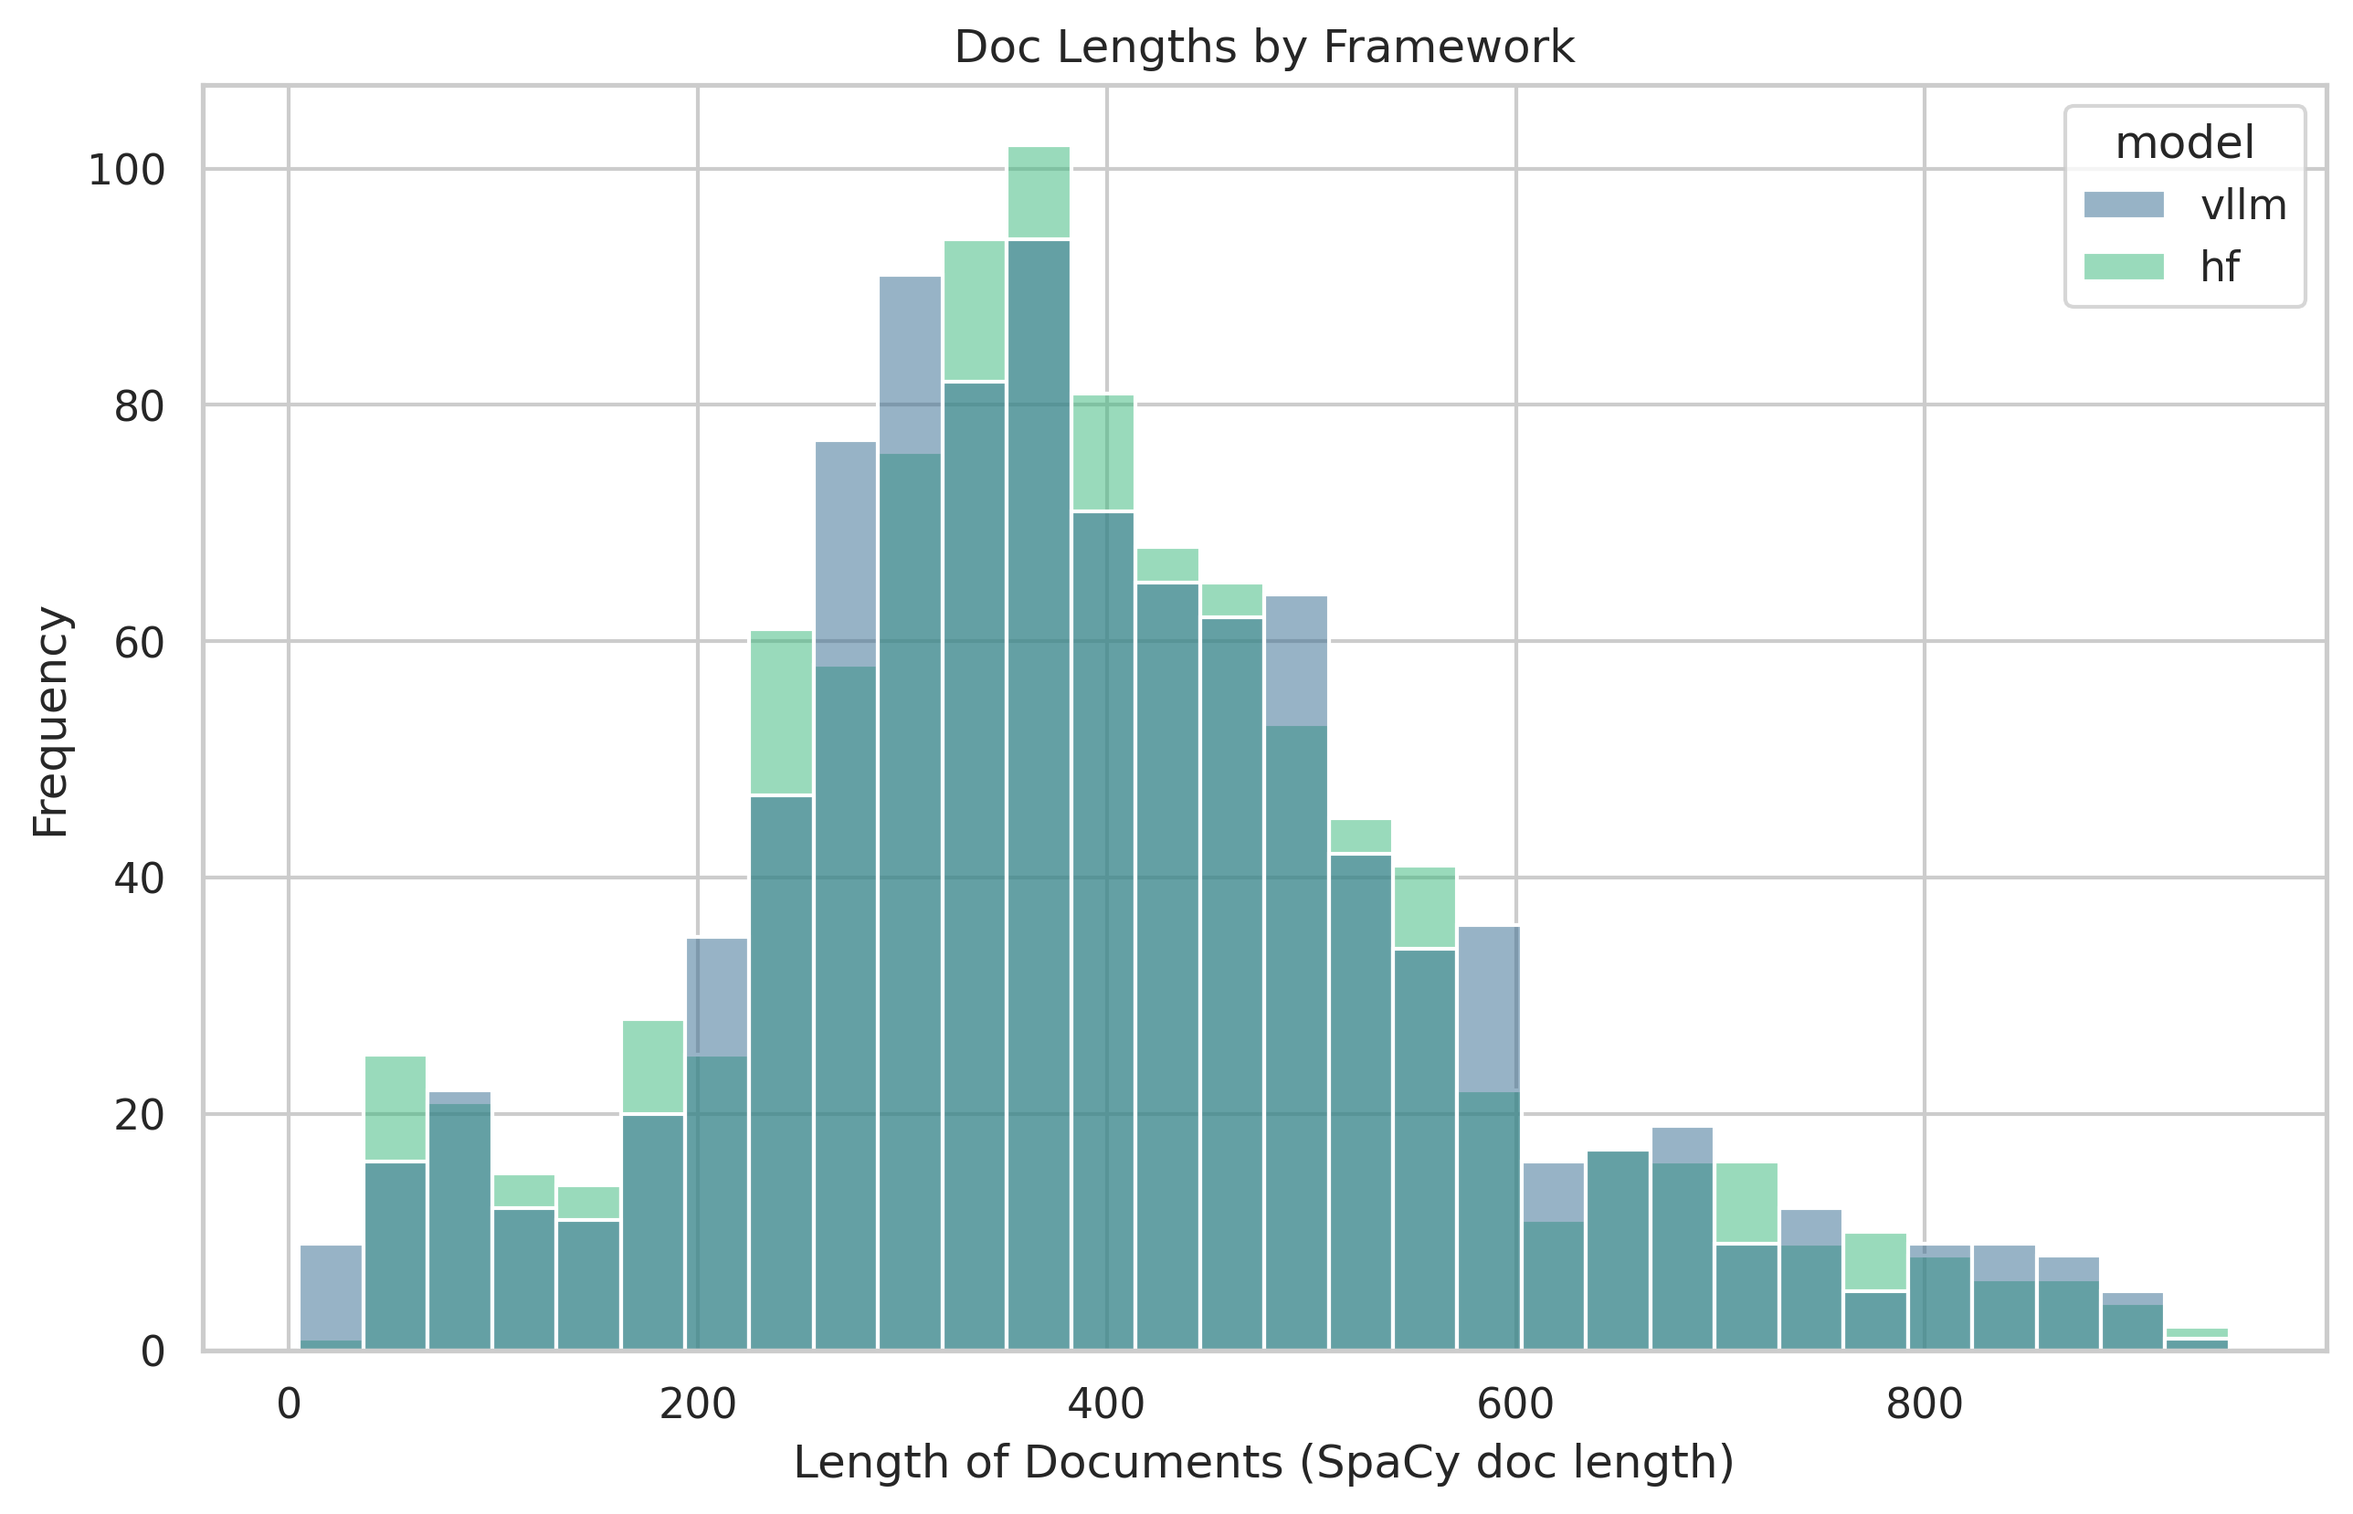
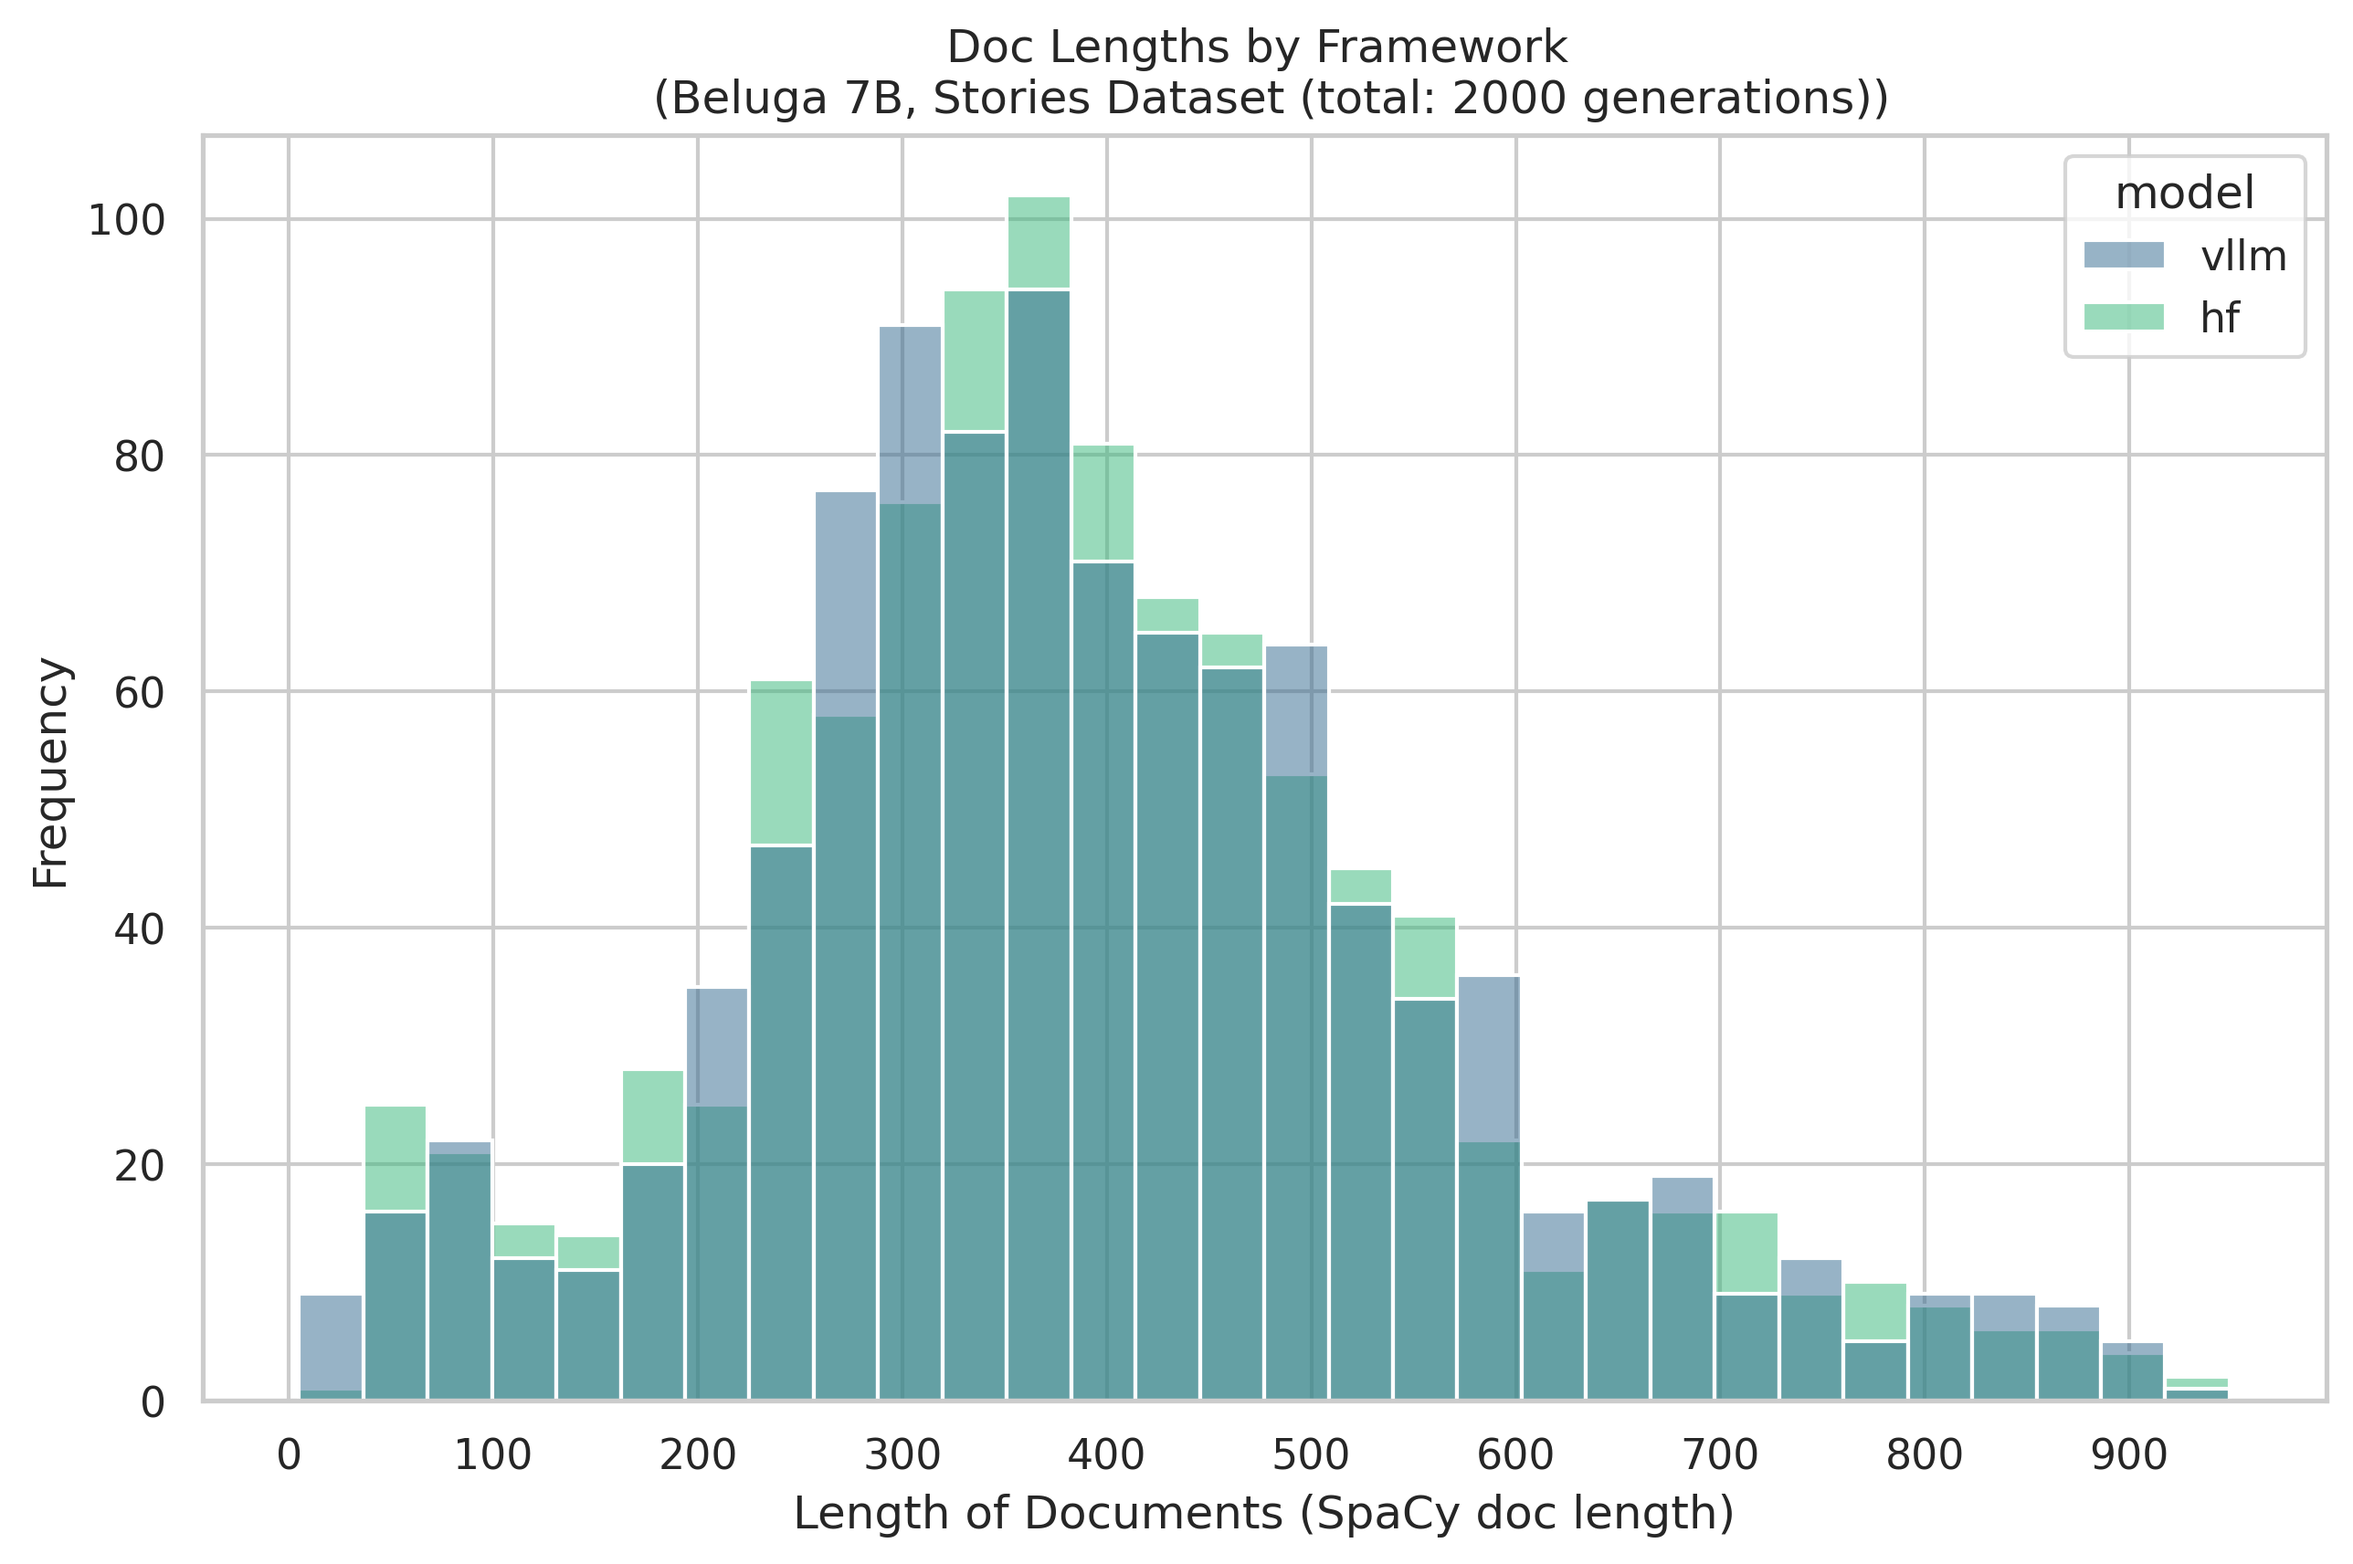
plot more precisely

diff --git a/src/descriptives/explore_vllm.py b/src/descriptives/explore_vllm.py
@@ -3,6 +3,7 @@ import pandas as pd
 import spacy
 import seaborn as sns
 import matplotlib.pyplot as plt
+import matplotlib.ticker as ticker
 
 import sys 
 sys.path.append(str(pathlib.Path(__file__).parents[2]))
@@ -21,13 +22,15 @@ def load_data(model="beluga7b", file="stories_prompt_1.ndjson", vllm=False, root
 
     return df 
 
-def plot_distribution(df, col="doc_length", hue_col='model', bins=30, figsize=(10, 6), title='Doc Lengths by Framework', save_path=None):
-    # Set the style for a prettier plot
+def plot_distribution(df, col="doc_length", hue_col='model', bins=30, figsize=(10, 6), title='Doc Lengths by Framework \n (Beluga 7B, Stories Dataset (total: 2000 generations))', save_path=None):
     sns.set(style="whitegrid")
 
-    # Plotting the histogram
+    # plot
     plt.figure(figsize=figsize)
     sns.histplot(data=df, x='doc_length', hue=hue_col, kde=False, bins=bins, palette='viridis')
+
+    # adjust
+    plt.gca().xaxis.set_major_locator(ticker.MultipleLocator(100))
     plt.title(title)
     plt.xlabel('Length of Documents (SpaCy doc length)')
     plt.ylabel('Frequency')
@@ -66,10 +69,6 @@ def main():
     df["dataset"] = "stories"
     df["prompt_number"] = 1
 
-    # models     
-    models = ["vllm", "hf"]
-    datasets = ["stories"]
-
     print("[INFO:] EXTRACTING LOW LEVEL METRICS")
     metrics_df = get_descriptive_metrics(df, "completions", "id")
 
@@ -96,8 +95,10 @@ def main():
 
     print("[INFO:] COMPUTING & PLOTTING DISTANCES ...")
     distance_df = compute_distances(final_df, models=["vllm"], baseline="hf")
-    g = sns.catplot(data=distance_df, x="prompt_number", y="distance", kind="strip", jitter=0.3)
+    sns.set(style="whitegrid")
+    g = sns.catplot(data=distance_df, x="prompt_number", y="distance", kind="strip", jitter=0.3, palette="viridis", hue="prompt_number")
     g.set(xlabel=None, xticklabels=[])
+    g._legend.remove()
     plt.title("Distance between VLLM and HF \n Stories dataset, Completions below 112 doc length removed")
     g.savefig(path.parents[0] / "vllm_hf_distance_stories.png", dpi=600)
 
